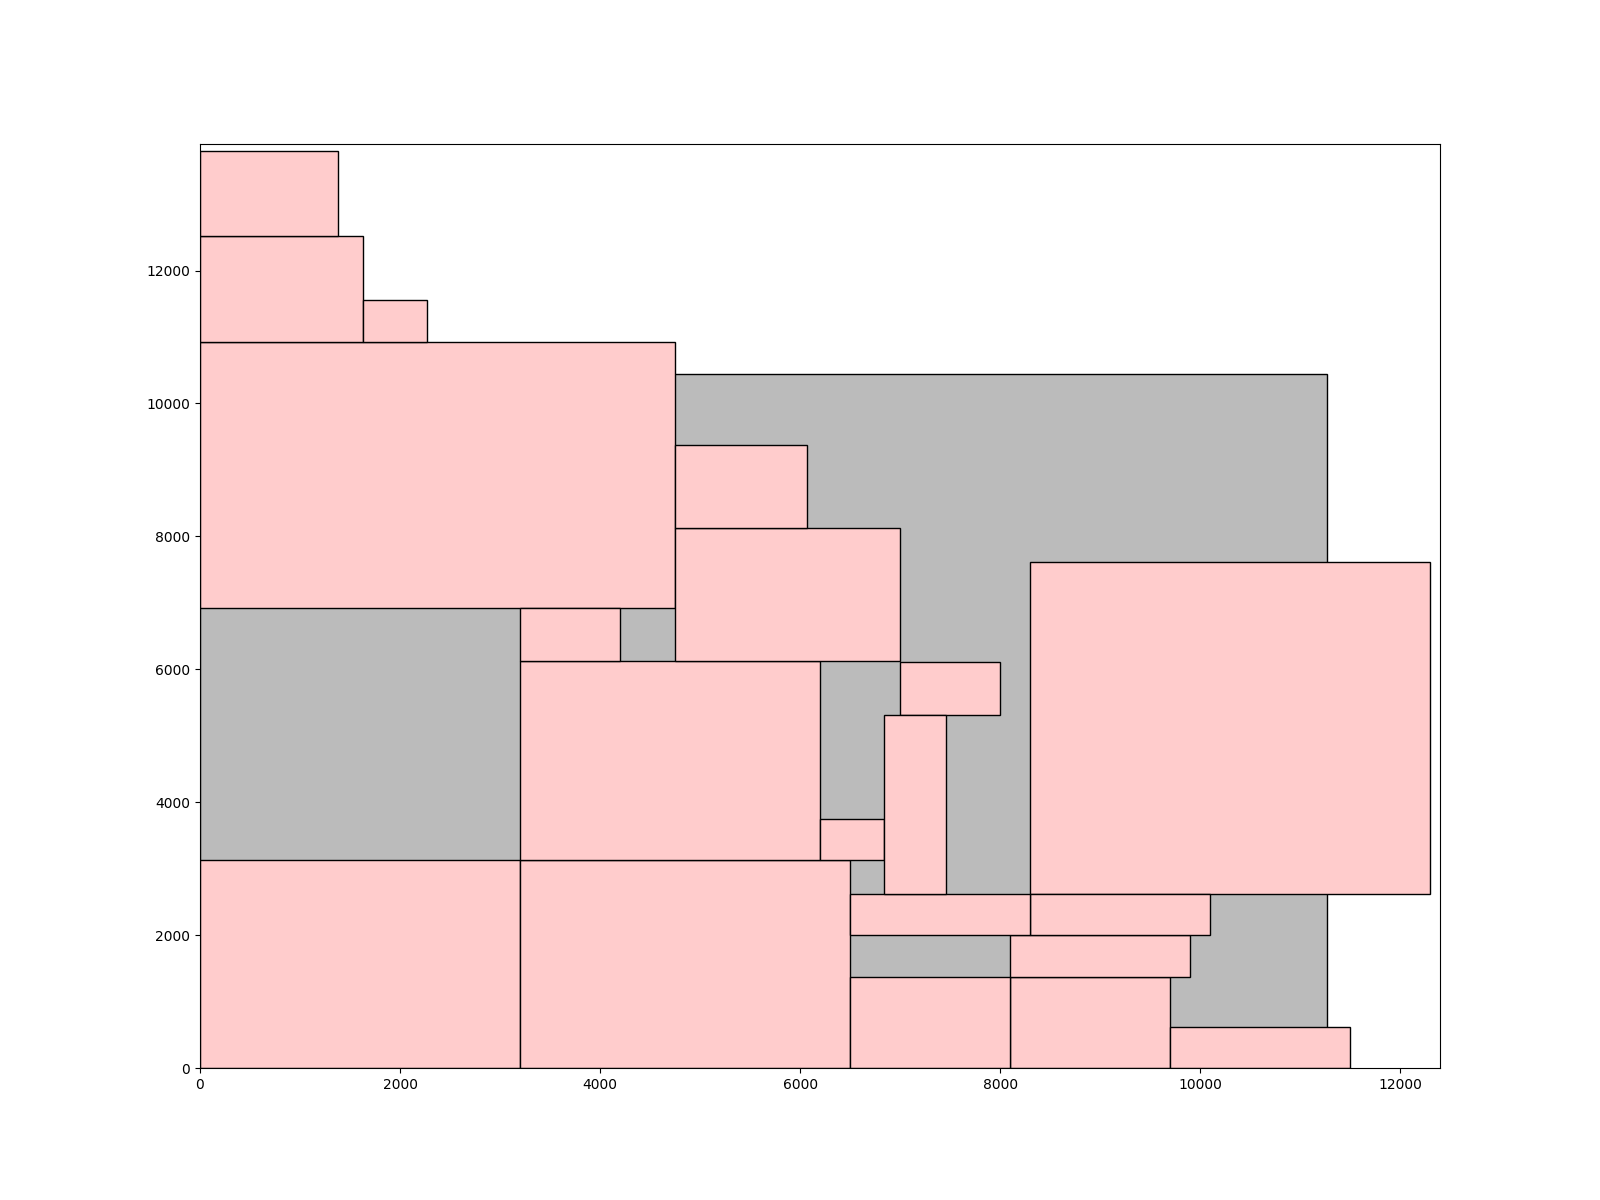
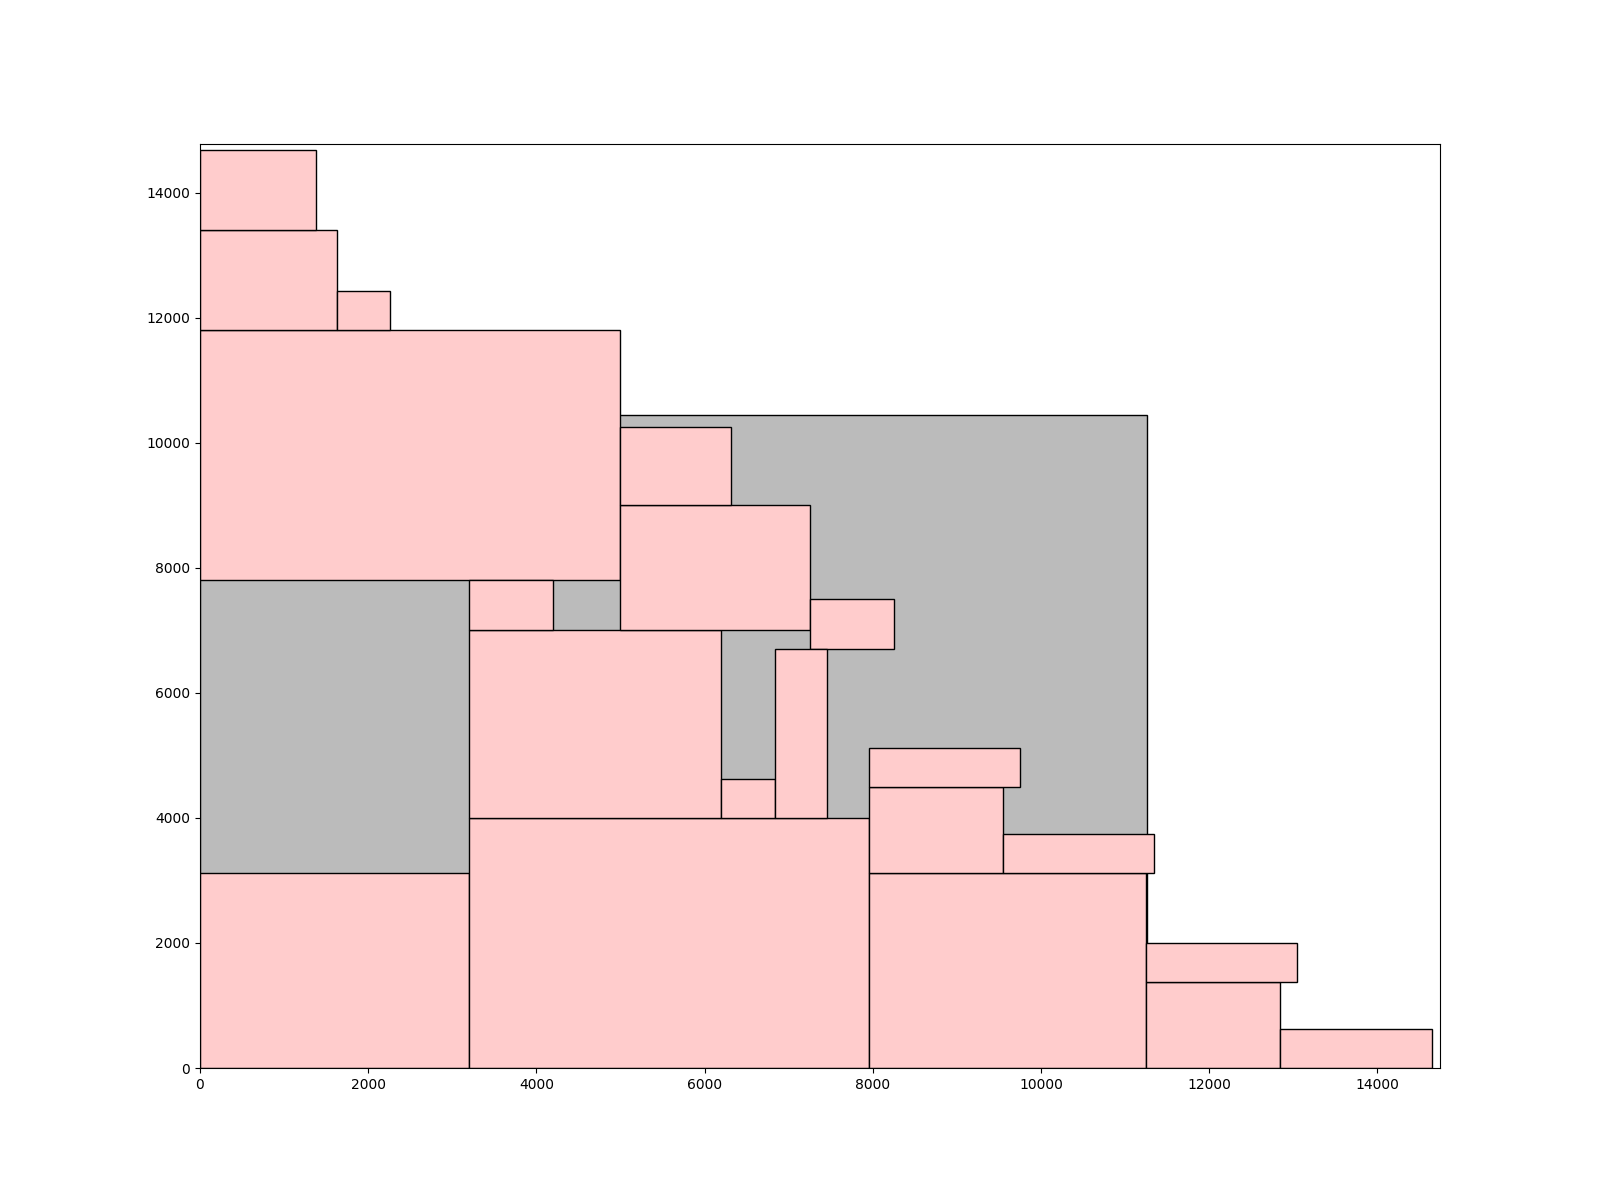
before class push, unfinish init pt

diff --git a/main.cpp b/main.cpp
@@ -3,6 +3,7 @@
 #include <assert.h>
 #include <math.h>
 #include <fstream>
+#include <stdlib.h>
 #include <string>
 #include <vector>
 #include <stdio.h>
@@ -24,16 +25,38 @@ int divisorCloseRoot(long long num);
 double FastSAProb(double deltaC, double temp);
 double CalculateConnection(vector <Connection*>, int);
 void printBlock(Block *block);
+int rollPetrubDice(double , double , double , double);
+int rollSoftBlocks(int);
+
+
+
+
 
 int main(int argc, char *argv[]){
 
     //PARAM declerations
+    srand(17);
     //-------- SA Related ---------------
 
-    double DELTA_AVG;
-    double DELTA_COST;
+    double PETURB_RATIO_ROTATE  = 0.25;
+    double PETURB_RATIO_RESIZE  = 0.25;
+    double PETURB_RATIO_MOVE    = 0.25;
+    double PETURB_RATIO_SWAP    = 0.25;
+
+    //Cost function is defined as: Cost_alpha * Area + Cost_beta * WireLength + (1-Cost_alpha-Cost_beta) * (R-RStar)
+
+    //1. Conduct initial peturbations for (block num) * INITIAL_PETURB_RATIO to collect data;
+    double INITIAL_PETURB_RATIO = 15.0;
+    //These is collected at initial perturbation
+    double DELTA_AVG;   //This is collected at initial perturbation
     double A_NORM;
     double W_NORM;
+    double R_NORM;
+
+    double DELTA_COST;  //This is collected at each rounds(few peturbations)
+
+    //newAspectRatio = currentAspectRatio * PETURB_RESIZE_STEP;
+    double PETURB_RESIZE_STEP = 1.5;
 
     //-------- Input Related ---------------
     //CHIP related variables
@@ -184,60 +207,111 @@ int main(int argc, char *argv[]){
     for(int hard_idx = 0; hard_idx < NUMBER_OF_FIXED_MODULES; hard_idx++){
         allblock_vector.push_back(fixed_modules_vector[hard_idx]);
     }
+    BST.init(allblock_vector);
     printf("Packing..\n");
     for(int i = 0; i < (NUMBER_OF_SOFT_MODULES+NUMBER_OF_FIXED_MODULES); i++){
         printBlock(allblock_vector[i]);
     }
     printf("Done packing..\n");
 
-    BST.init(allblock_vector);
-    BST.render();
+    // /*Prepare for SA section: Peturb BST for */
+    int initial_peturbtype_dice_roll;
+    int target0, target1;
+    for(int init_peturb_idx = 0; init_peturb_idx < (NUMBER_OF_BLOCKS * INITIAL_PETURB_RATIO); init_peturb_idx++){
+
+        initial_peturbtype_dice_roll = rollPetrubDice(PETURB_RATIO_ROTATE, PETURB_RATIO_RESIZE, PETURB_RATIO_MOVE, PETURB_RATIO_SWAP);
+        
+        int target0 = rollSoftBlocks(NUMBER_OF_SOFT_MODULES);
+        int target1 = rollSoftBlocks(NUMBER_OF_SOFT_MODULES);
+        while(target1 == target0) target1 = rollSoftBlocks(NUMBER_OF_SOFT_MODULES);
+        double original_ratio;
+
+       printf("InitP[%3d] OP:",init_peturb_idx);
+        
+        switch(initial_peturbtype_dice_roll){
+            case 0:     // rotate
+                BST.perturbRotateBlock(soft_modules_vector[target0]);
+                cout <<"Rotate SB" << target0;
+                break;
+            case 1:     // resize
+                original_ratio = (soft_modules_vector[target0]->width) / (soft_modules_vector[target0]->height);
+                BST.perturbResizeSoftBlock(soft_modules_vector[target0], original_ratio * PETURB_RESIZE_STEP);
+                cout <<"Resize SB"<<target0 << "(" <<original_ratio << " -> " << original_ratio * PETURB_RESIZE_STEP <<")";
+                break;
+            case 2:     // move
+                BST.perturbMoveBlock(soft_modules_vector[target0],soft_modules_vector[target1]);
+                cout <<"Move SB" <<target0 << "to parent SB"<<target1;
+                break;
+            default:    //swap
+                BST.perturbSwapNode(soft_modules_vector[target0], soft_modules_vector[target1]);
+                cout <<"Swap SB" <<target0 << "with SB"<<target1;
+        }
+
+        cout << endl;
+        if(!BST.getisRendered()) BST.render();
+        BST.boundingBox(&floorplan_width, &floorplan_height);
+        cout <<"L:"<<BST.getisLegal()<<", "
+    }
+
+
+
+
+
+
     
-    BST.boundingBox(&floorplan_width, &floorplan_height);
+    // BST.boundingBox(&floorplan_width, &floorplan_height);
     
-    printf("W: %d, H:% d\n", floorplan_width, floorplan_height);
-    printf("Conn: %lf\n", CalculateConnection(connections_vector, NUMBER_OF_CONNECTIONS));
-    printf("Initialized..\n");
-    for(int i = 0; i < (NUMBER_OF_SOFT_MODULES+NUMBER_OF_FIXED_MODULES); i++){
-        printBlock(allblock_vector[i]);
-    }
+    // printf("W: %d, H:% d\n", floorplan_width, floorplan_height);
+    // printf("Conn: %lf\n", CalculateConnection(connections_vector, NUMBER_OF_CONNECTIONS));
+    // printf("Initialized..\n");
+    // for(int i = 0; i < (NUMBER_OF_SOFT_MODULES+NUMBER_OF_FIXED_MODULES); i++){
+    //     printBlock(allblock_vector[i]);
+    // }
 
 
 
-    int result = BST.perturbRotateBlock(soft_modules_vector[2]);
-    BST.render();
-    printf("Rotate reuslt: %d\n",result);
-    BST.boundingBox(&floorplan_width, &floorplan_height);
-    printf("W: %d, H:% d\n", floorplan_width, floorplan_height);
-    printf("Conn: %lf\n", CalculateConnection(connections_vector, NUMBER_OF_CONNECTIONS));
-        for(int i = 0; i < (NUMBER_OF_SOFT_MODULES+NUMBER_OF_FIXED_MODULES); i++){
-        printBlock(allblock_vector[i]);
-    }
+    // int result = BST.perturbRotateBlock(soft_modules_vector[2]);
+    // BST.render();
+    // printf("Rotate reuslt: %d\n",result);
+    // BST.boundingBox(&floorplan_width, &floorplan_height);
+    // printf("W: %d, H:% d\n", floorplan_width, floorplan_height);
+    // printf("Conn: %lf\n", CalculateConnection(connections_vector, NUMBER_OF_CONNECTIONS));
+    //     for(int i = 0; i < (NUMBER_OF_SOFT_MODULES+NUMBER_OF_FIXED_MODULES); i++){
+    //     printBlock(allblock_vector[i]);
+    // }
 
 
 
 
-    result = BST.perturbMoveBlock(soft_modules_vector[1], fixed_modules_vector[2]);
-    BST.render();
-    printf("Move reuslt: %d\n",result);
-    BST.boundingBox(&floorplan_width, &floorplan_height);
-    printf("W: %d, H:% d\n", floorplan_width, floorplan_height);
-    printf("Conn: %lf\n", CalculateConnection(connections_vector, NUMBER_OF_CONNECTIONS));
-        for(int i = 0; i < (NUMBER_OF_SOFT_MODULES+NUMBER_OF_FIXED_MODULES); i++){
-        printBlock(allblock_vector[i]);
-    }
+    // result = BST.perturbMoveBlock(soft_modules_vector[1], fixed_modules_vector[2]);
+    // BST.render();
+    // printf("Move reuslt: %d\n",result);
+    // BST.boundingBox(&floorplan_width, &floorplan_height);
+    // printf("W: %d, H:% d\n", floorplan_width, floorplan_height);
+    // printf("Conn: %lf\n", CalculateConnection(connections_vector, NUMBER_OF_CONNECTIONS));
+    //     for(int i = 0; i < (NUMBER_OF_SOFT_MODULES+NUMBER_OF_FIXED_MODULES); i++){
+    //     printBlock(allblock_vector[i]);
+    // }
 
-    result = BST.perturbSwapNode(soft_modules_vector[2], soft_modules_vector[1]);
-    BST.render();
-    printf("Swap reuslt: %d\n",result);
-    BST.boundingBox(&floorplan_width, &floorplan_height);
-    printf("W: %d, H:% d\n", floorplan_width, floorplan_height);
-    printf("Conn: %lf\n", CalculateConnection(connections_vector, NUMBER_OF_CONNECTIONS));
-        for(int i = 0; i < (NUMBER_OF_SOFT_MODULES+NUMBER_OF_FIXED_MODULES); i++){
-        printBlock(allblock_vector[i]);
-    }
+    // result = BST.perturbSwapNode(soft_modules_vector[2], soft_modules_vector[1]);
+    // BST.render();
+    // printf("Swap reuslt: %d\n",result);
+    // BST.boundingBox(&floorplan_width, &floorplan_height);
+    // printf("W: %d, H:% d\n", floorplan_width, floorplan_height);
+    // printf("Conn: %lf\n", CalculateConnection(connections_vector, NUMBER_OF_CONNECTIONS));
+    //     for(int i = 0; i < (NUMBER_OF_SOFT_MODULES+NUMBER_OF_FIXED_MODULES); i++){
+    //     printBlock(allblock_vector[i]);
+    // }
 
-
+    // result = BST.perturbResizeSoftBlock(soft_modules_vector[2], 0.5);
+    // BST.render();
+    // printf("resize reuslt: %d\n",result);
+    // BST.boundingBox(&floorplan_width, &floorplan_height);
+    // printf("W: %d, H:% d\n", floorplan_width, floorplan_height);
+    // printf("Conn: %lf\n", CalculateConnection(connections_vector, NUMBER_OF_CONNECTIONS));
+    //     for(int i = 0; i < (NUMBER_OF_SOFT_MODULES+NUMBER_OF_FIXED_MODULES); i++){
+    //     printBlock(allblock_vector[i]);
+    // }
 
     //final print
     BST.printFloorplan(fout1, CHIP_WIDTH, CHIP_HEIGHT);
@@ -300,7 +374,26 @@ void printBlock(Block *block){
 
     cout << setw(8)<<block->blockname << "(" <<block->id <<")]";
     printf(", A: %10d", block->area);
-    printf(", W: %7d, H: %7d, ",block->width, block->height);
+    printf(", W: %7d, H: %7d",block->width, block->height);
     printf(", @X: %7d, @Y: %7d\n",block->block_x, block->block_y);
 
+}
+
+int rollPetrubDice(double rotate, double resize, double move, double swap){
+    //create random between 0 and 9999_9999
+    const int granularity = 100000000;
+    int randomvalue = rand() % granularity;
+    int rotate_b = granularity * rotate;
+    int resize_b = granularity * (rotate + resize);
+    int move_b = granularity * (rotate + resize + move);
+    if(randomvalue < rotate_b) return 0;
+    else if (randomvalue < resize_b) return 1;
+    else if (randomvalue < move_b) return 2;
+    else return 3;
+
+    return -1; // this would never hit
+}
+
+inline int rollSoftBlocks(int soft_block_num){
+    return rand() % soft_block_num;
 }
